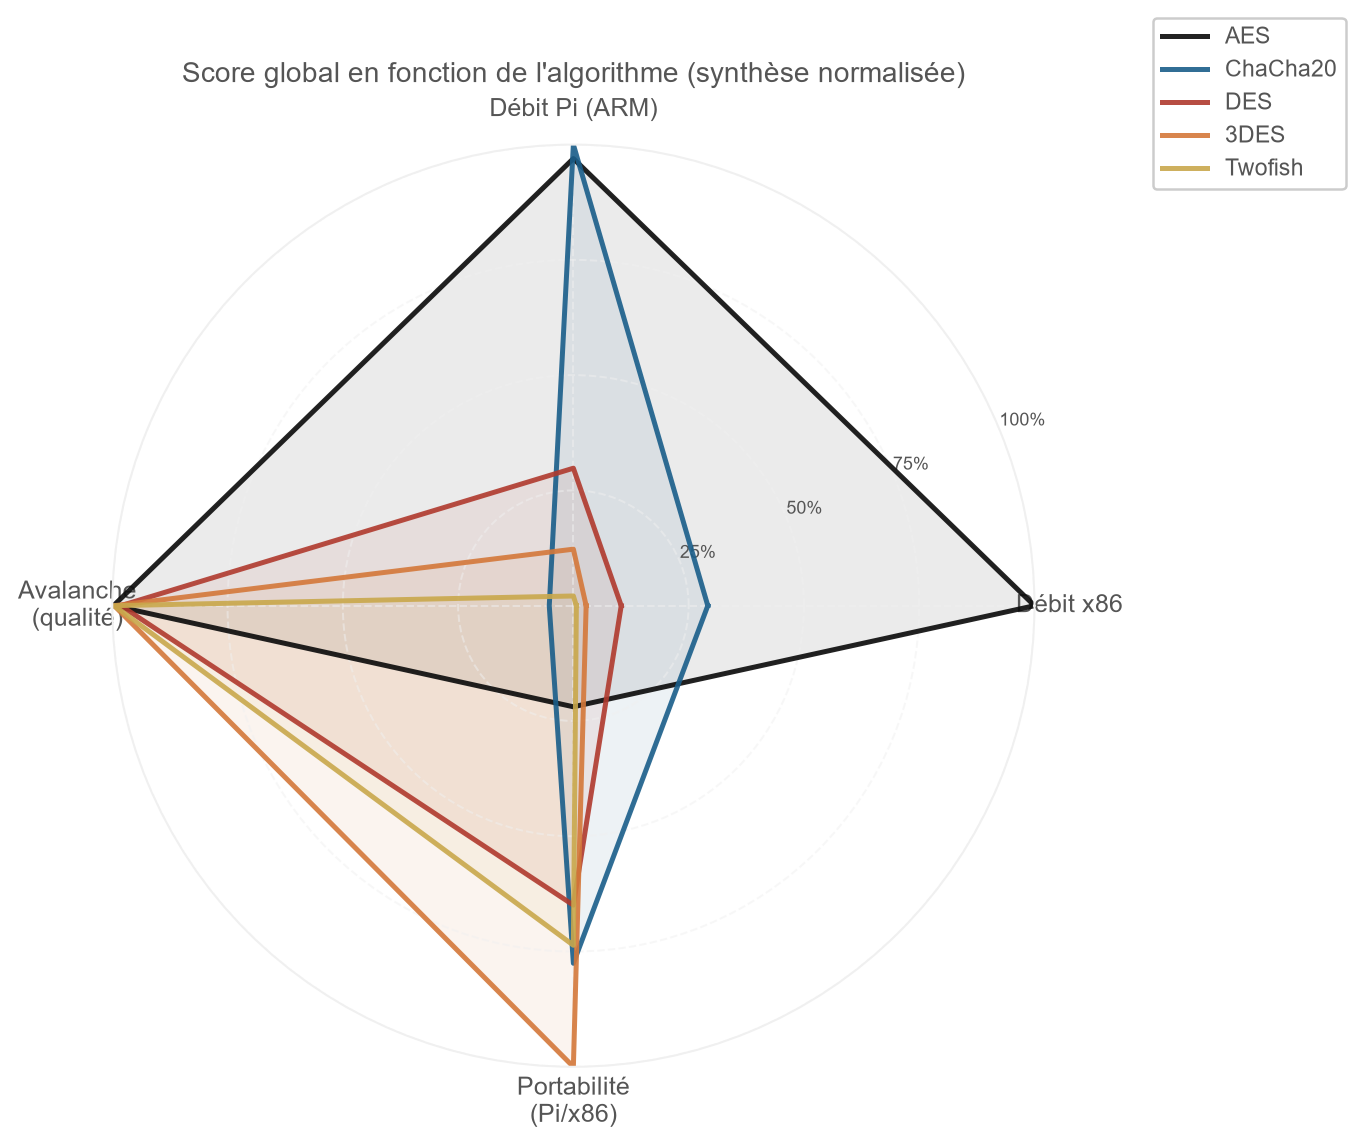
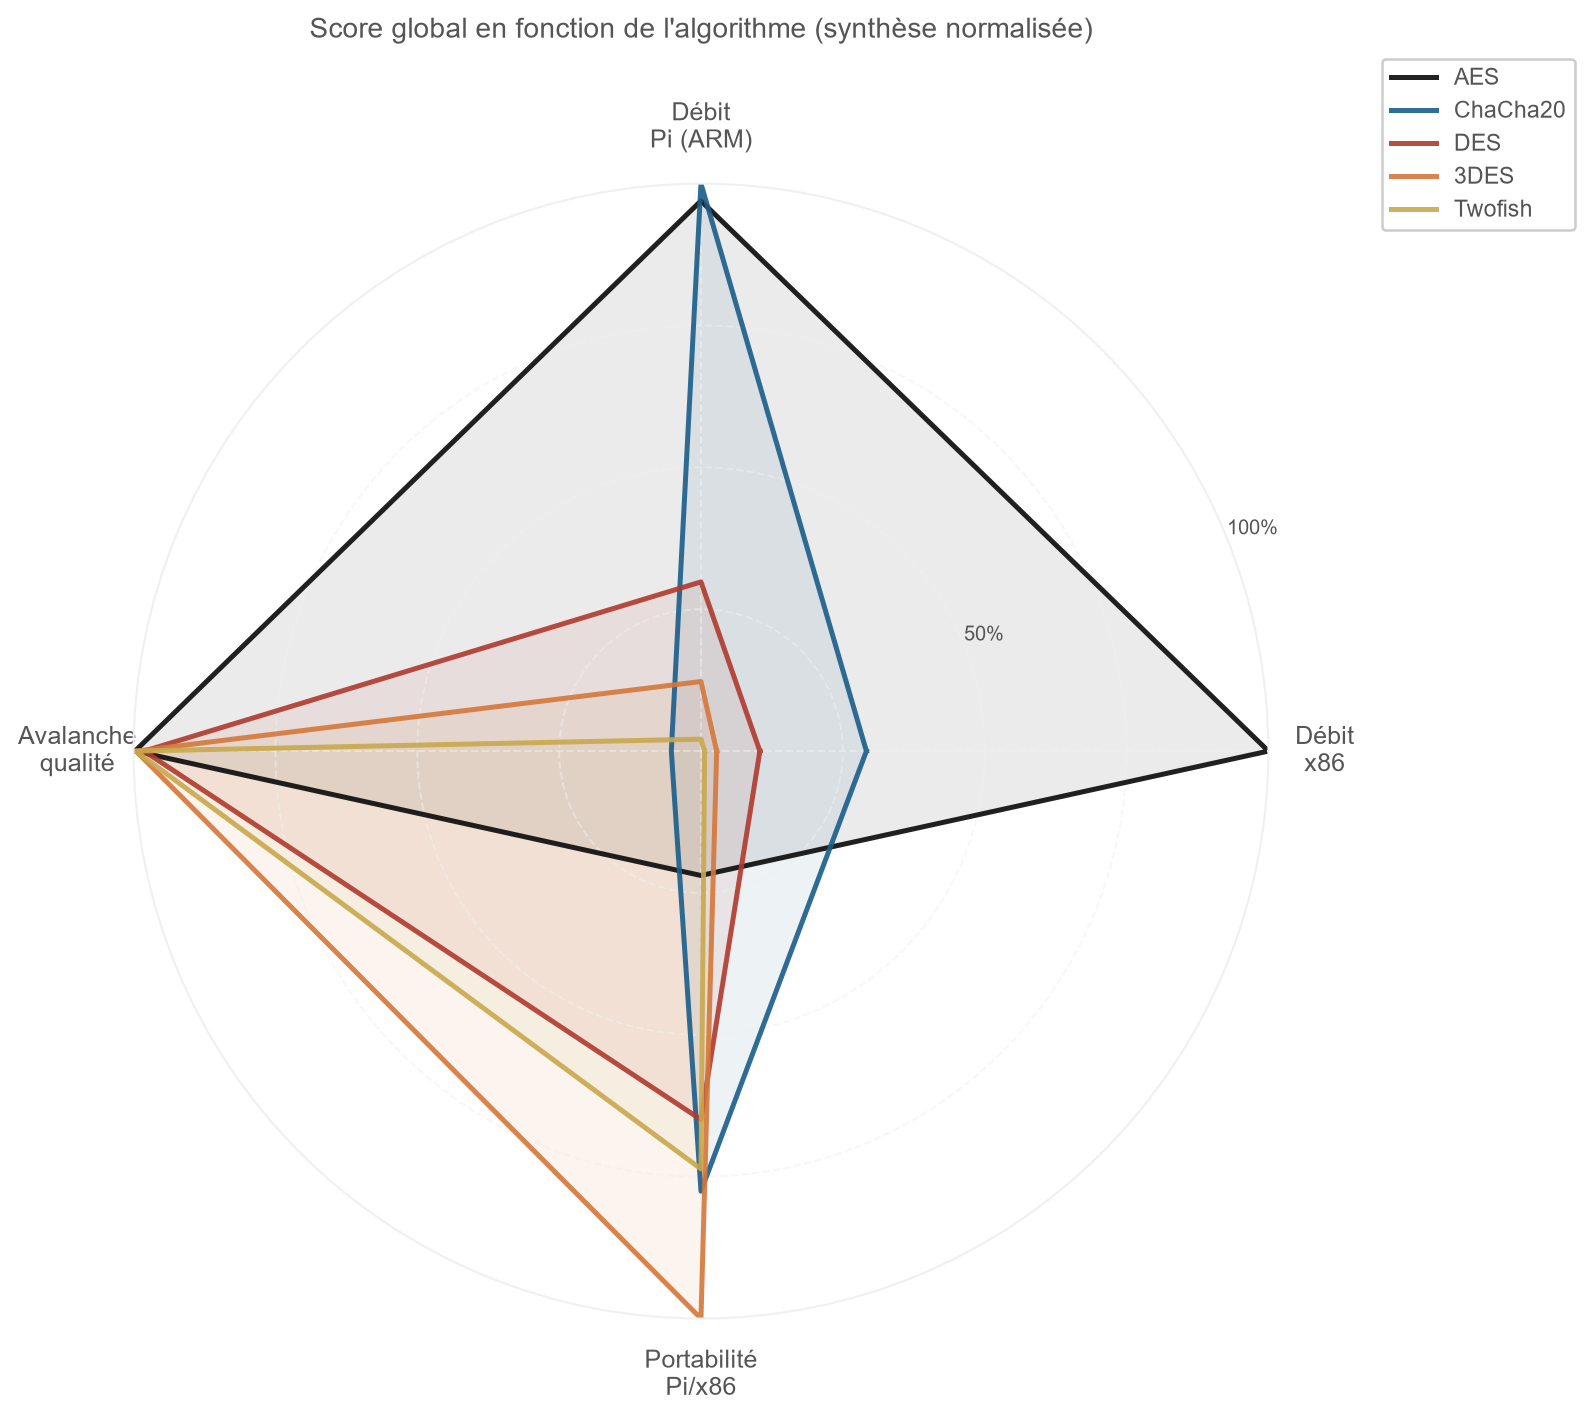
commit

diff --git a/crypto-experiments/scripts/chart_pipeline/build_platform_comparison.py b/crypto-experiments/scripts/chart_pipeline/build_platform_comparison.py
@@ -514,21 +514,23 @@ def cmp7_radar():
     n_aval = {a: 1 - abs(aval_scores[a] - 0.5) * 10 for a in algo_order}
     n_port = norm(portability)
 
-    categories = ["Débit x86", "Débit Pi (ARM)", "Avalanche\n(qualité)", "Portabilité\n(Pi/x86)"]
+    categories = ["Débit\nx86", "Débit\nPi (ARM)", "Avalanche\nqualité", "Portabilité\nPi/x86"]
     N      = len(categories)
     angles = np.linspace(0, 2 * np.pi, N, endpoint=False).tolist()
     angles += angles[:1]
 
-    fig, ax = plt.subplots(figsize=(8, 8), subplot_kw=dict(polar=True))
+    fig, ax = plt.subplots(figsize=(9, 8), subplot_kw=dict(polar=True))
     fig.patch.set_facecolor(BG_COLOR)
     ax.set_facecolor(PANEL_COLOR)
     ax.spines["polar"].set_color(GRID_COLOR)
     ax.grid(color=GRID_COLOR, linestyle="--", alpha=0.5)
     ax.set_xticks(angles[:-1])
     ax.set_xticklabels(categories, size=10, color=TEXT_COLOR)
+    ax.tick_params(axis="x", pad=12)
     ax.set_ylim(0, 1)
     ax.set_yticks([0.25, 0.5, 0.75, 1.0])
-    ax.set_yticklabels(["25%", "50%", "75%", "100%"], size=7, color=TEXT_COLOR)
+    ax.set_yticklabels(["", "50%", "", "100%"], size=8, color=TEXT_COLOR)
+    ax.set_rlabel_position(22)
     ax.tick_params(colors=TEXT_COLOR)
 
     for algo in algo_order:
@@ -542,7 +544,7 @@ def cmp7_radar():
         "Score global en fonction de l'algorithme (synthèse normalisée)",
         fontsize=11, color=TEXT_COLOR, pad=25,
     )
-    ax.legend(loc="upper right", bbox_to_anchor=(1.35, 1.15), fontsize=9)
+    ax.legend(loc="upper right", bbox_to_anchor=(1.28, 1.12), fontsize=9)
     plt.tight_layout()
     savefig("04-synthese/algorithm-profile-radar.png")
 

diff --git a/docs/06-videos/video-03-resultats-performance.md b/docs/06-videos/video-03-resultats-performance.md
@@ -2,151 +2,118 @@
 
 ## Introduction (ouverture caméra)
 **Texte à lire :**
-Cette vidéo est consacrée aux résultats de performance de la campagne expérimentale.
+Cette vidéo présente les résultats de performance de la campagne expérimentale.
 
-Après avoir validé la conformité cryptographique et le protocole de mesure dans la vidéo précédente, on peut maintenant répondre à la question centrale : qu'est-ce qui explique les écarts de débit observés entre les algorithmes, entre les modes d'opération et entre les plateformes x86 et ARM ?
+Après la validation fonctionnelle et la méthode de mesure, on répond maintenant à la question centrale: qu'est-ce qui explique les écarts de débit entre algorithmes, entre modes, et entre plateformes x86 et ARM?
 
-On va suivre une lecture progressive. D'abord, on confirme la provenance des figures. Ensuite, on lit les graphes de débit selon la taille de message. Puis, on interprète les différences entre algorithmes et modes, avant de terminer par l'impact matériel, notamment l'accélération AES-NI.
+La lecture suit une progression simple. D'abord, on confirme la traçabilité des graphes. Ensuite, on lit l'effet de la taille des messages. Puis on compare les algorithmes et les modes. Enfin, on termine avec l'effet matériel, en particulier AES-NI.
 
 ## Objectif
-Interpréter les résultats de performance de manière rigoureuse, en reliant chaque écart mesuré à trois facteurs : l'algorithme, le mode de chiffrement et l'architecture matérielle.
+Interpréter rigoureusement les performances en reliant chaque écart à trois facteurs: algorithme, mode d'opération et architecture matérielle.
 
 ## Portée
-- scripts/charts/render_performance.py
-- data/results/laptop-windows-x86_experience3.csv
-- data/results/raspberry-pi_experience3.csv
-- data/charts/01-debit/debit-vs-taille-message.png
-- data/charts/01-debit/debit-4096o.png
-- data/charts/01-debit/comparaison-ratio-acceleration.png
-- data/charts/03-modes-chiffrement/aes-comparaison-modes.png
-- data/charts/03-modes-chiffrement/aes-securite-vs-performance.png
-- data/charts/01-debit/chacha20-comparaison-plateformes.png
+- `scripts/run_charts.py`
+- `scripts/chart_pipeline/build_performance.py`
+- `scripts/chart_pipeline/build_platform_comparison.py`
+- `data/results/laptop-windows-x86_experience3.csv`
+- `data/results/raspberry-pi_experience3.csv`
+- `data/charts/01-debit/debit-vs-taille-message.png`
+- `data/charts/01-debit/debit-4096o.png`
+- `data/charts/01-debit/comparaison-ratio-acceleration.png`
+- `data/charts/03-modes-chiffrement/aes-comparaison-modes.png`
+- `data/charts/03-modes-chiffrement/aes-securite-vs-performance.png`
+- `data/charts/01-debit/chacha20-comparaison-plateformes.png`
 
 ## Guide d'enregistrement
 
-### Section 1 - Provenance des graphes et traçabilité
+### Section 1 - Traçabilité des graphes
 **Où sommes-nous :**
-VS Code, fichier scripts/charts/render_performance.py, puis dossier data/charts.
+VS Code sur `scripts/run_charts.py`, puis `scripts/chart_pipeline/` et `data/charts/`.
 
-**Fichier / zone à montrer :**
-scripts/charts/render_performance.py
-- Bloc configuration et sélection du CSV (résultats vers graphiques)
-- Fonction d'export savefig (écriture des PNG)
+**Texte à lire :**
+Avant d'interpréter les chiffres, on confirme la traçabilité. Les figures ne sont pas dessinées manuellement. Elles sont générées automatiquement à partir des CSV de mesure.
 
-**Intro (texte à lire) :**
-Avant d'interpréter les chiffres, on vérifie d'où viennent les figures. Le principe est simple : les graphes ne sont pas dessinés manuellement. Ils sont générés automatiquement à partir des CSV exportés par la campagne de mesure.
+Le point d'entrée est `scripts/run_charts.py`. Ce script orchestre les dossiers de sortie et appelle les modules `build_performance.py` et `build_platform_comparison.py`. Les fonctions de rendu lisent les données normalisées, tracent les figures et les sauvegardent dans `data/charts`.
 
-**Sujet (texte à lire) :**
-Le script scripts/charts/render_performance.py lit le fichier CSV sélectionné dans data/results, applique les mêmes règles de calcul et de visualisation, puis sauvegarde les images dans data/charts. Cette étape est importante, parce qu'elle garantit que la narration repose sur des données traçables et reproductibles. On peut donc lier chaque conclusion à un fichier source précis.
+Cette étape est essentielle, parce qu'elle garantit une narration reproductible: chaque conclusion est rattachée à une source mesurée et à une image générée automatiquement.
 
 **Code à montrer :**
 ```python
-BASE_DIR = os.path.abspath(os.path.join(os.path.dirname(__file__), "..", ".."))
-RESULTS_DIR = os.path.join(BASE_DIR, "data", "results")
-CHARTS_DIR  = os.path.join(BASE_DIR, "data", "charts")
-os.makedirs(CHARTS_DIR, exist_ok=True)
+# scripts/run_charts.py
+TARGETS = {
+    "01": _generate_01_debit,
+    "02": _generate_02_effet_avalanche,
+    "03": _generate_03_modes_chiffrement,
+    "04": _generate_04_synthese,
+}
 
-csv_files = sorted(
-    [f for f in os.listdir(RESULTS_DIR) if f.endswith(".csv") and f != ".gitkeep"]
-)
-CSV_PATH = os.path.join(RESULTS_DIR, csv_files[-1])
-print(f"Reading: {CSV_PATH}")
-
-with open(CSV_PATH, newline="", encoding="utf-8") as f:
-    reader = csv.DictReader(f)
-    ...
-
+# scripts/chart_pipeline/build_performance.py
 def savefig(name: str):
-    path = os.path.join(CHARTS_DIR, name)
-    plt.savefig(path, dpi=DPI, bbox_inches="tight", facecolor=BG_COLOR)
-    print(f"  Saved: {path}")
+    save_figure(plt.gcf(), CHARTS_DIR, name, facecolor=BG_COLOR)
 ```
-
-**Narration ligne par ligne (texte à lire) :**
-Aux lignes de configuration, le script fixe d'abord les deux dossiers clés : data/results pour l'entrée et data/charts pour la sortie. Le dossier des figures est créé automatiquement si nécessaire.
-
-Ensuite, le script repère les fichiers CSV disponibles, sélectionne celui qui sera lu pour la génération, puis l'affiche explicitement avec Reading: chemin du fichier. Cette trace est importante, parce qu'elle indique exactement quel jeu de données alimente les graphes.
-
-Puis, avec DictReader, chaque ligne CSV est lue sous forme structurée. C'est ce format structuré qui garantit des transformations cohérentes sur l'ensemble de la campagne.
-
-Enfin, la fonction savefig centralise l'export de toutes les figures PNG et affiche Saved: chemin du fichier. On a donc un cycle complet et traçable : source lue, traitement appliqué, fichier image écrit.
 
 **Commande à montrer (terminal) :**
 ```bash
 cd crypto-experiments
-python scripts/charts/render_performance.py
+python scripts/run_charts.py 01
+python scripts/run_charts.py 03
 ```
 
 **Texte à lire après la commande :**
-Dans le terminal, on voit d'abord Reading:, puis une série de Saved:. Cela confirme que les graphes présentés sont générés automatiquement depuis les mesures, et non produits manuellement.
+Dans le terminal, on voit les chemins des fichiers enregistrés. Cela confirme que les graphes sont produits directement depuis les données expérimentales.
 
-**Transition (texte à lire) :**
-Maintenant que la chaîne de production des figures est claire, on peut passer à la lecture des débits.
+**Transition :**
+Maintenant que la chaîne de production est claire, on passe à la lecture des débits.
 
-### Section 2 - Débit selon la taille de message
-**Où sommes-nous :**
-PowerPoint, slides résultats débit global et effet taille.
-
+### Section 2 - Débit selon la taille du message
 **Visuel à montrer :**
-data/charts/01-debit/debit-vs-taille-message.png
+`data/charts/01-debit/debit-vs-taille-message.png`
 
 **Texte à lire :**
-Ce premier graphe montre l'évolution du débit quand la taille du message augmente. La tendance principale est la suivante : sur les petites tailles, le coût fixe de traitement pèse davantage. Quand la taille augmente, ce coût fixe est amorti, et le débit utile devient plus stable.
+Ce graphe montre l'évolution du débit quand la taille du message augmente. Sur les petites tailles, le coût fixe pèse fortement. Quand la taille augmente, ce coût est amorti, et le débit utile se stabilise.
 
-Cette lecture est essentielle pour éviter les conclusions rapides. Un algorithme qui semble moyen sur 64 octets peut devenir très compétitif sur 4096 ou 16384 octets. C'est pour cela que notre protocole couvre plusieurs tailles de message, et pas une seule valeur arbitraire.
+Le point important est méthodologique: un algorithme moyen à 64 octets peut devenir compétitif à 4096 ou 16384 octets. C'est pourquoi notre protocole couvre plusieurs tailles de message.
 
-**Transition (texte à lire) :**
-Après cette vue d'ensemble, on fixe une taille de référence pour comparer plus directement les algorithmes.
+**Transition :**
+Après la tendance globale, on fixe une taille de référence pour comparer plus clairement.
 
-### Section 3 - Comparaison à taille fixe
-**Où sommes-nous :**
-PowerPoint, slide comparaison à 4096 octets.
-
+### Section 3 - Comparaison à 4096 octets
 **Visuel à montrer :**
-data/charts/01-debit/debit-4096o.png
+`data/charts/01-debit/debit-4096o.png`
 
 **Texte à lire :**
-Ici, on fige la taille du message à 4096 octets pour isoler l'effet algorithme plus mode, sans mélanger les effets de taille. On observe une hiérarchie plus lisible des performances.
+Ici, la taille est fixée à 4096 octets. On isole donc l'effet algorithme et mode, sans mélanger l'effet taille.
 
-AES ressort en tête sur la plateforme x86 dans plusieurs configurations, ce qui est cohérent avec la présence d'une accélération matérielle dédiée. ChaCha20 reste robuste et régulier, surtout dans les contextes où l'accélération AES est absente ou moins favorable. À l'inverse, DES et 3DES montrent des performances inférieures, en plus de leurs limites de sécurité.
+AES ressort en tête sur x86 dans plusieurs cas, cohérent avec l'accélération matérielle. ChaCha20 reste régulier et performant, surtout sur des environnements moins favorables à AES-NI. DES et 3DES sont plus lents, en plus de leurs limites de sécurité.
 
-**Transition (texte à lire) :**
-Cette comparaison donne la hiérarchie globale. Voyons maintenant l'effet spécifique du mode d'opération.
+**Transition :**
+La hiérarchie globale est visible. Regardons maintenant l'effet spécifique des modes.
 
-### Section 4 - Impact des modes de chiffrement
-**Où sommes-nous :**
-PowerPoint, slides modes ECB/CBC/CTR/GCM.
-
+### Section 4 - Impact des modes d'opération
 **Visuels à montrer :**
-data/charts/03-modes-chiffrement/aes-comparaison-modes.png
-data/charts/03-modes-chiffrement/aes-securite-vs-performance.png
+`data/charts/03-modes-chiffrement/aes-comparaison-modes.png`
+`data/charts/03-modes-chiffrement/aes-securite-vs-performance.png`
 
 **Texte à lire :**
-À algorithme constant, le mode d'opération modifie le coût total. Les modes ne portent pas la même charge fonctionnelle. GCM, par exemple, ajoute l'authentification en plus du chiffrement. Ce surcoût est donc attendu, et il s'accompagne d'un gain de sécurité opérationnelle important, puisque l'intégrité est vérifiée en même temps que la confidentialité.
+À algorithme constant, le mode change le coût total. Tous les modes n'ont pas la même charge fonctionnelle. Par exemple, GCM ajoute l'authentification en plus du chiffrement.
 
-L'idée clé n'est pas de chercher le mode le plus rapide dans l'absolu. L'idée est de choisir le mode qui correspond au besoin de sécurité réel du système. Un mode plus coûteux peut être le bon choix si les garanties qu'il apporte sont nécessaires.
+Le message clé n'est pas de choisir le mode le plus rapide en absolu. Le bon choix est celui qui correspond au besoin de sécurité du système.
 
-**Transition (texte à lire) :**
-On a séparé l'effet taille et l'effet mode. Il reste maintenant à lire l'effet plateforme.
+**Transition :**
+On a séparé l'effet taille et l'effet mode. Il reste l'effet plateforme.
 
-### Section 5 - Effet plateforme et accélération matérielle
-**Où sommes-nous :**
-PowerPoint, slide x86 vs Raspberry Pi.
-
+### Section 5 - Effet plateforme et rôle d'AES-NI
 **Visuels à montrer :**
-data/charts/01-debit/comparaison-ratio-acceleration.png
-data/charts/01-debit/chacha20-comparaison-plateformes.png
+`data/charts/01-debit/comparaison-ratio-acceleration.png`
+`data/charts/01-debit/chacha20-comparaison-plateformes.png`
 
 **Texte à lire :**
-Cette section répond à la question du pourquoi entre x86 et ARM. Sur x86, AES profite fortement de l'extension AES-NI. Une partie importante de l'écart de débit vient donc du matériel, pas d'un changement de méthode logicielle. Sur Raspberry Pi, ce levier n'existe pas au même niveau, et la hiérarchie peut se resserrer selon les cas.
+Ici, on explique l'écart x86 versus ARM. Sur x86, AES profite de l'extension AES-NI. Une part importante du gain vient donc du matériel.
 
-Le message à retenir est direct : la performance cryptographique est une propriété du couple algorithme plus architecture. On ne choisit pas une primitive dans le vide. On la choisit pour une plateforme cible et un niveau de sécurité donné.
+Sur Raspberry Pi, ce levier est différent ou absent, et la hiérarchie peut se resserrer. La conclusion est directe: la performance cryptographique est une propriété du couple algorithme plus architecture.
 
-### Section 6 - Conclusion et transition
-**Support affiché :**
-PowerPoint, slide de synthèse de la vidéo 3.
-
+### Section 6 - Conclusion vidéo 3
 **Texte à lire :**
-On conclut cette vidéo avec trois constats. Premier constat, le débit dépend fortement de l'algorithme et de la taille de message. Deuxième constat, le mode d'opération introduit un compromis mesurable entre coût et garanties de sécurité. Troisième constat, l'architecture matérielle, notamment AES-NI sur x86, explique une part majeure des écarts inter-plateformes.
+On retient trois constats. Le débit dépend de la taille de message et de l'algorithme. Le mode d'opération introduit un compromis mesurable entre coût et garanties de sécurité. Et l'architecture matérielle, notamment AES-NI, explique une part majeure des écarts inter-plateformes.
 
-Dans la prochaine vidéo, on complète cette lecture par la robustesse cryptographique, avec l'analyse de l'effet d'avalanche et de la stabilité statistique.
+Dans la vidéo suivante, on complète cette lecture avec la robustesse cryptographique, l'effet d'avalanche et la stabilité statistique.
